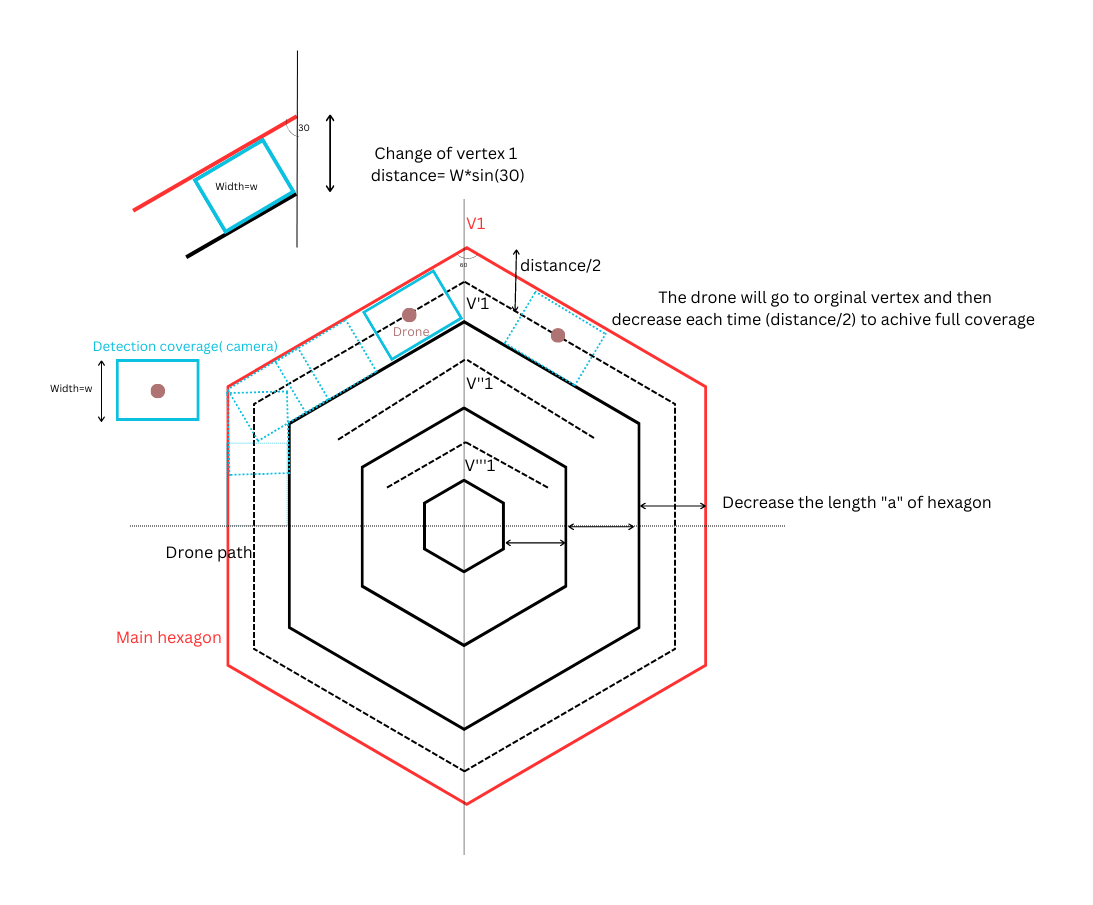
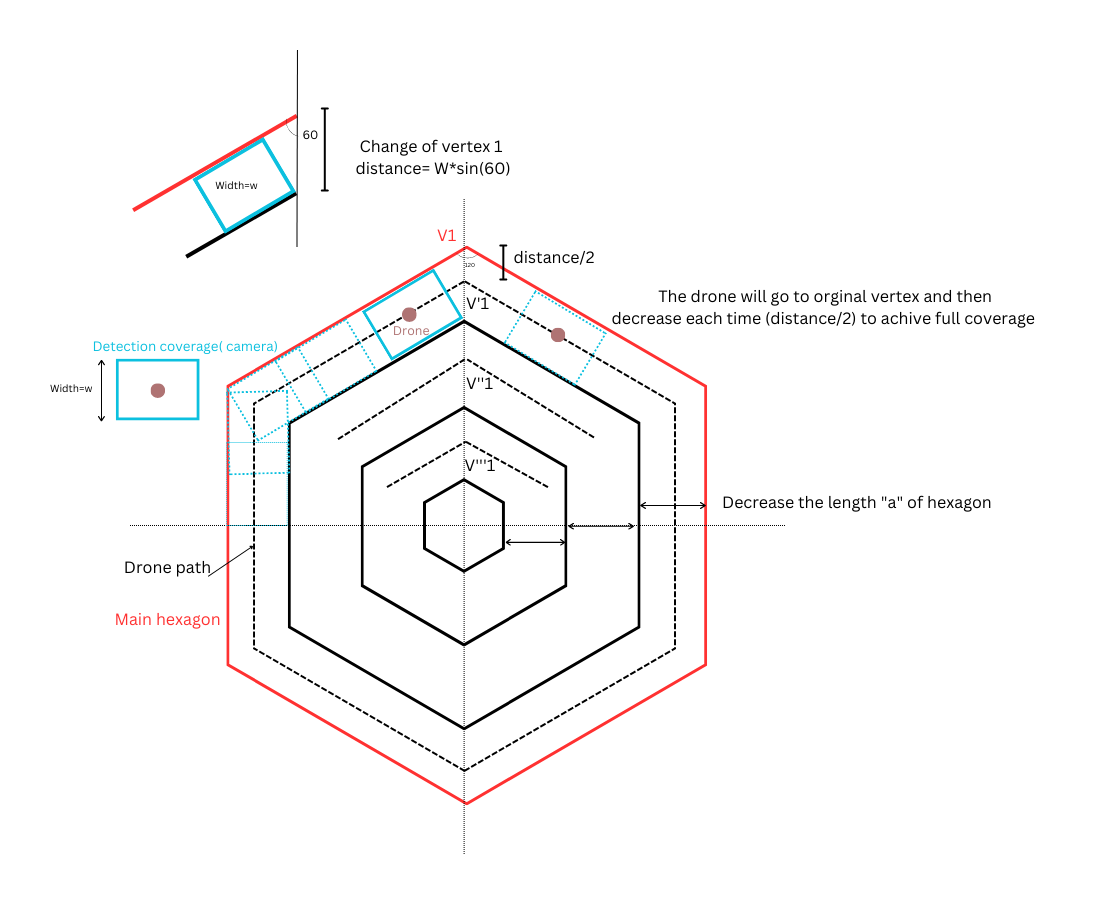
update README

diff --git a/README.md b/README.md
@@ -3,4 +3,20 @@
 ## How to find tagret in the region of the drone
 The drone will scan the region by taking a hexagon path with length depends on the camera setting.
 For example based on the focal length and the high of the camera, the covrage will be calculate and define the path of the drone.
+
+```bash
+        scan_hexagon(vehicle-object, VESPA-object, orgin-hex-length ,camera_image_width)
+```
+
+- It will start by calculating the distance between two successtive hexagon that confined between them the size of the image that can be captured by the drone
+- calcule Distance/2 beause the drone should be in th middle.
+- scan the first region
+    - go to the orginal vertex V1
+    - go down on (y) by distance/2 to V'1= (V1-distance/2)
+    - move on the path that form hexagon
+    - finish the loop
+- scan the second region
+    - from the last position (v'1) go by distance/2 go to v''1=( V'1-distance/2)
+    - move on the path and scan a hexagon
+- repeat until you can't subtract (distance/2) which means no more regions need to be scanned
 ![Alt text](https://github.com/SulaimanMohammad/Drone_VESPA/blob/main/.exp/coverage.png)
